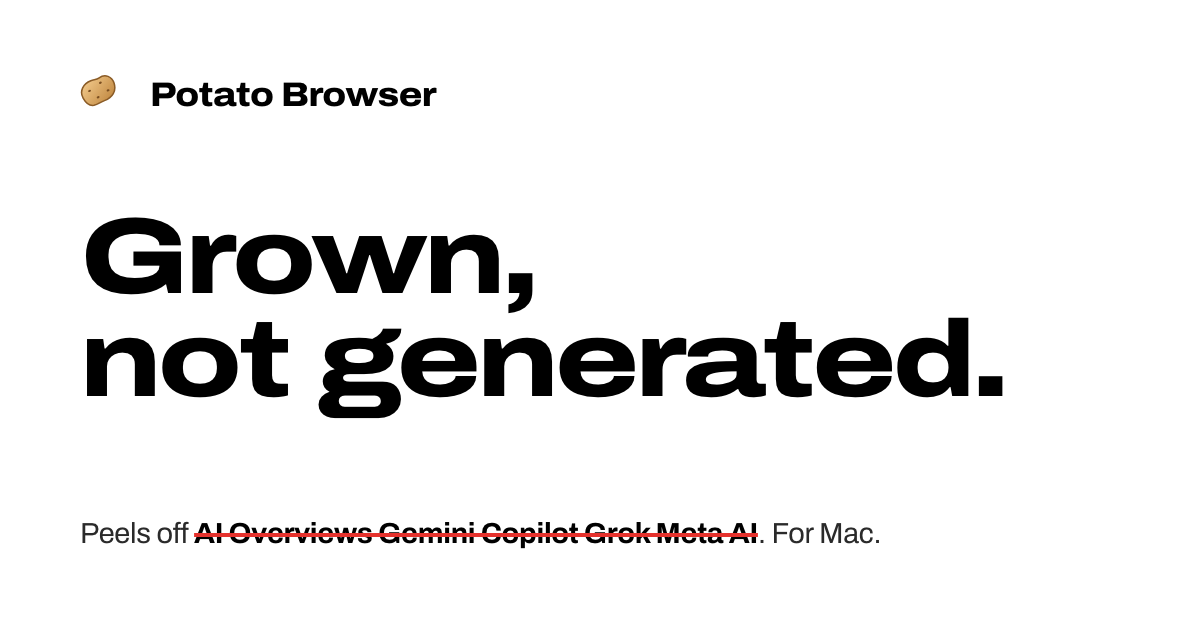
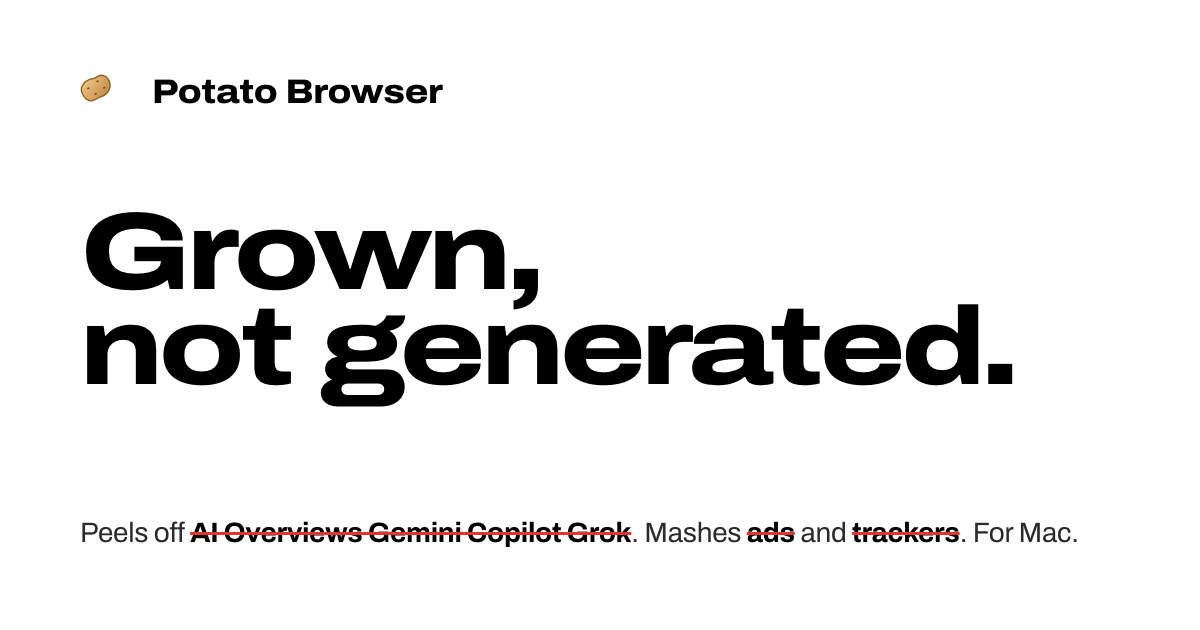
Site: the built-in ad blocker on potatobrowser.com
- New "Ads and trackers, mashed" section with a demo in the hero's
  style: a news page whose ads get struck out and folded away, and
  the trackers that never loaded.
- Hero, meta and social descriptions mention the ad blocker; nav link.
- FAQ: why block ads in a no-AI browser, will it break sites, what
  the ad blocker sends; free and extensions answers updated.
- Social card tagline: peels off AI, mashes ads and trackers.

diff --git a/apps/web/public/index.html b/apps/web/public/index.html
@@ -4,13 +4,13 @@
   <meta charset="utf-8">
   <meta name="viewport" content="width=device-width, initial-scale=1">
   <title>Potato Browser: the web, no artificial ingredients</title>
-  <meta name="description" content="A fast Chromium browser for Mac that peels AI Overviews, chatbots and AI buttons off major sites, grows without AI in the engine, and lets people flag AI-generated posts. Grown, not generated.">
+  <meta name="description" content="A fast Chromium browser for Mac that peels AI Overviews, chatbots and AI buttons off major sites, mashes ads and trackers before they load, grows without AI in the engine, and lets people flag AI-generated posts. Grown, not generated.">
   <meta name="theme-color" content="#ffffff">
   <link rel="canonical" href="https://potatobrowser.com/">
   <link rel="icon" href="/favicon.png" type="image/png">
   <link rel="apple-touch-icon" href="/apple-touch-icon.png">
   <meta property="og:title" content="Potato Browser">
-  <meta property="og:description" content="Grown, not generated. A Mac browser that peels the AI off the web and lets people flag AI-generated posts.">
+  <meta property="og:description" content="Grown, not generated. A Mac browser that peels the AI off the web, mashes the ads and trackers, and lets people flag AI-generated posts.">
   <meta property="og:url" content="https://potatobrowser.com/">
   <meta property="og:image" content="https://potatobrowser.com/og.png">
   <meta property="og:type" content="website">
@@ -28,6 +28,7 @@
     </a>
     <nav aria-label="Primary">
       <a href="#hidden">What gets peeled</a>
+      <a href="#ads">Ad blocker</a>
       <a href="#flags">Flags</a>
       <a href="#source">Source</a>
       <a href="#faq">Questions</a>
@@ -39,7 +40,7 @@
     <section class="hero" aria-labelledby="hero-title">
       <h1 id="hero-title"><span>Grown,</span> <span>not generated.</span></h1>
       <div class="hero-copy">
-        <p class="lede">A fast Chromium browser for Mac that peels AI Overviews, chatbots and "help me write" buttons off the sites you use, and lets people flag AI-generated posts for each other. The web, with no artificial ingredients.</p>
+        <p class="lede">A fast Chromium browser for Mac that peels AI Overviews, chatbots and "help me write" buttons off the sites you use, mashes ads and trackers before they load, and lets people flag AI-generated posts for each other. The web, with no artificial ingredients.</p>
         <div class="cta-row">
           <a class="btn primary" href="/download/mac-arm64" data-download="arm64">Download for Mac</a>
           <a class="btn quiet" href="/download/mac-x64" data-download="x64">Intel Mac</a>
@@ -101,6 +102,61 @@
         <div><dt>GitHub, Stack Overflow, Notion</dt><dd><s>Copilot</s> <s>AI Assist</s> <s>Notion AI</s></dd></div>
       </dl>
       <p class="aside">The default search engine is DuckDuckGo with its AI switched off: plain results, like a plain baked potato. Prefer Google? Its plain web results are one click away in Settings.</p>
+    </section>
+
+    <section class="ads" id="ads" aria-labelledby="ads-title">
+      <div class="ads-copy">
+        <h2 id="ads-title">Ads and trackers, mashed</h2>
+        <p>Potato Browser comes with an ad blocker, switched on from the first page. Banners, pop-ups, video ads and the tracking scripts that follow you from site to site never load, so pages come up lighter and faster and nobody keeps notes on what you read.</p>
+        <p>It runs on the same open filter lists as uBlock Origin: EasyList, EasyPrivacy and uBlock's own, including the fixes that keep video ads off YouTube. Nothing to install, nothing to set up.</p>
+        <ul class="off" aria-label="What the ad blocker stops">
+          <li>Banner ads</li>
+          <li>Video ads</li>
+          <li>Pop-ups</li>
+          <li>Tracking pixels</li>
+          <li>Analytics scripts</li>
+        </ul>
+        <p class="fine">Want to support a site? The ad blocker button in the toolbar lets its ads through, there and nowhere else. Cookie banners and newsletter pop-ups can go too, one switch each in Settings. The lists freshen up daily through this site; the request names the lists, never you or the pages you visit.</p>
+      </div>
+
+      <figure class="ads-demo" data-ads="shown" aria-label="Example: a news article whose ads get struck out and mashed away">
+        <div class="win">
+          <div class="win-bar">
+            <span class="lights" aria-hidden="true"><i></i><i></i><i></i></span>
+            <span class="win-url">the-daily-spud.example/record-potato</span>
+            <button class="shield" type="button" aria-pressed="false" data-mash>
+              <svg viewBox="0 0 16 16" aria-hidden="true"><path d="M5.6 1.9h4.8l3.7 3.7v4.8l-3.7 3.7H5.6l-3.7-3.7V5.6z"/></svg>
+              <span data-mash-label>Mash the ads</span>
+            </button>
+          </div>
+          <div class="page article">
+            <div class="ad-wrap"><div class="ai-clip"><div class="ad-box ad-banner">
+              <span class="ad-tag">Advertisement</span>
+              <p class="ad-head">Buy 2 sacks, get 1 free!</p>
+              <p class="ad-sub">Limited time. Act now. Hurry. Seriously, hurry.</p>
+              <svg class="pen" viewBox="0 0 400 160" preserveAspectRatio="none" aria-hidden="true">
+                <path d="M14 140 C 90 112, 150 96, 214 70 S 330 26, 388 14"/>
+                <path d="M22 26 C 110 52, 196 82, 262 104 S 352 132, 384 146"/>
+              </svg>
+            </div></div></div>
+            <p class="kicker">Local news</p>
+            <p class="headline">Farmer grows an eleven pound potato</p>
+            <p class="body-text">The tuber broke the county record by two pounds. "I just kept hilling the rows," she said, holding it with both hands.</p>
+            <div class="ad-wrap"><div class="ai-clip"><div class="ad-box ad-inline">
+              <span class="ad-tag">Sponsored</span>
+              <span class="ad-thumb" aria-hidden="true"></span>
+              <p class="ad-head small">7 potato hacks doctors don't want you to know</p>
+              <svg class="pen" viewBox="0 0 400 160" preserveAspectRatio="none" aria-hidden="true">
+                <path d="M14 140 C 90 112, 150 96, 214 70 S 330 26, 388 14"/>
+                <path d="M22 26 C 110 52, 196 82, 262 104 S 352 132, 384 146"/>
+              </svg>
+            </div></div></div>
+            <p class="body-text">Judges will weigh the next contenders at the fair on Saturday.</p>
+            <p class="trackers"><span>Never loaded:</span> <s>doubleclick.net</s> <s>google-analytics.com</s> <s>facebook.net</s> <s>taboola.com</s></p>
+          </div>
+        </div>
+        <figcaption>Press the button to watch the ads get mashed. In the browser it happens before the page even loads.</figcaption>
+      </figure>
     </section>
 
     <section class="engine" aria-labelledby="engine-title">
@@ -196,11 +252,23 @@ pnpm --filter @potato/browser dist --arch host</code></pre>
       </details>
       <details>
         <summary>Is it free?</summary>
-        <p>Yes, and open source under the MIT license. No account, no subscription, no ads. Cheaper than a sack of spuds.</p>
+        <p>Yes, and open source under the MIT license. No account, no subscription, and no ads (we block those). Cheaper than a sack of spuds.</p>
       </details>
       <details>
         <summary>Can I see the AI on a site when I actually want it?</summary>
         <p>Yes, and we won't judge. Click the shield in the toolbar and switch it off for that site. Everything comes back right away, on that site only. Settings has the full list of covered sites and features if you'd like to keep a few of them.</p>
+      </details>
+      <details>
+        <summary>Why block ads in a no-AI browser?</summary>
+        <p>Because they grow in the same patch. A lot of the generated filler on the web exists only to show ads, and the ad networks are the trackers that follow you from site to site. Keeping the web human means keeping those off your plate too.</p>
+      </details>
+      <details>
+        <summary>Will the ad blocker break sites?</summary>
+        <p>Rarely. It uses uBlock Origin's lists, which carry fixes for sites that misbehave and update every day. If a site still acts up, press the ad blocker button in the toolbar and switch it off for that site. The page reloads with everything back, on that site only.</p>
+      </details>
+      <details>
+        <summary>What does the ad blocker send?</summary>
+        <p>Nothing about you. All matching happens on your Mac. Once a day the browser asks this site which version of each filter list is current and downloads the ones that changed. The request names the lists, never you or the pages you visit. You can turn updates off in Settings.</p>
       </details>
       <details>
         <summary>Can't people just flag everything?</summary>
@@ -220,7 +288,7 @@ pnpm --filter @potato/browser dist --arch host</code></pre>
       </details>
       <details>
         <summary>Does it support extensions and saved passwords?</summary>
-        <p>Not yet, they're still sprouting. Your password manager's own app works alongside it in the meantime.</p>
+        <p>Not yet, they're still sprouting. You won't miss an ad blocker extension, since one is built in. Your password manager's own app works alongside it in the meantime.</p>
       </details>
       <details>
         <summary>Windows or Linux?</summary>

diff --git a/apps/web/public/styles.css b/apps/web/public/styles.css
@@ -456,6 +456,141 @@ main > section.hero {
   max-width: var(--measure);
 }
 
+/* ---- ad blocker -------------------------------------------------------------------------------- */
+.ads {
+  display: grid;
+  grid-template-columns: minmax(0, 5fr) minmax(0, 7fr);
+  gap: clamp(32px, 5vw, 72px);
+  align-items: start;
+}
+.ads-copy {
+  display: grid;
+  gap: 22px;
+}
+.ads-copy p {
+  max-width: var(--measure);
+}
+.ads-copy .off {
+  margin: 4px 0 0;
+}
+.ads-demo {
+  margin: 0;
+}
+.ads-demo figcaption {
+  margin-top: 22px;
+  font-size: 15px;
+  color: var(--muted);
+}
+.article .kicker {
+  font-size: 13px;
+  font-weight: 700;
+  letter-spacing: 0.06em;
+  text-transform: uppercase;
+  color: var(--pen);
+}
+.article .headline {
+  font-size: 24px;
+  line-height: 1.15;
+  font-weight: 800;
+  font-stretch: var(--semi);
+  letter-spacing: -0.02em;
+  color: var(--ink);
+  margin: 4px 0 10px;
+}
+.article .body-text {
+  font-size: 15.5px;
+  margin-bottom: 14px;
+}
+.ad-wrap {
+  display: grid;
+  grid-template-rows: 1fr;
+  transition: grid-template-rows 0.45s cubic-bezier(0.3, 0.7, 0.2, 1), margin 0.45s;
+  margin-bottom: 18px;
+}
+.ad-box {
+  position: relative;
+  border-radius: 12px;
+  padding: 14px 18px;
+  font-size: 15px;
+}
+.ad-banner {
+  background: repeating-linear-gradient(135deg, #fff3b0 0 14px, #ffe680 14px 28px);
+  color: #4a3b00;
+  text-align: center;
+}
+.ad-inline {
+  display: grid;
+  grid-template-columns: 56px minmax(0, 1fr);
+  gap: 4px 14px;
+  align-items: center;
+  background: #f1f4f9;
+  color: #2c3a52;
+}
+.ad-inline .ad-tag {
+  grid-column: 1 / -1;
+}
+.ad-thumb {
+  width: 56px;
+  height: 42px;
+  border-radius: 8px;
+  background: linear-gradient(160deg, #ffd9a8 0%, #ff9bb3 60%, #9d8bff 100%);
+}
+.ad-tag {
+  display: block;
+  font-size: 11.5px;
+  font-weight: 700;
+  letter-spacing: 0.08em;
+  text-transform: uppercase;
+  opacity: 0.7;
+}
+.ad-head {
+  font-size: 21px;
+  font-weight: 800;
+  font-stretch: var(--semi);
+  letter-spacing: -0.01em;
+}
+.ad-head.small {
+  font-size: 16px;
+  line-height: 1.3;
+}
+.ad-sub {
+  font-size: 14px;
+}
+.trackers {
+  display: flex;
+  flex-wrap: wrap;
+  gap: 4px 14px;
+  align-items: baseline;
+  font-size: 14px;
+  color: var(--muted);
+  border-top: 1px solid var(--rule);
+  padding-top: 12px;
+}
+.trackers s {
+  color: var(--ink);
+  font-weight: 700;
+  text-decoration-color: var(--pen);
+  text-decoration-thickness: 2px;
+}
+/* Ad boxes are wider than the AI box: longer dashes, or the undrawn stroke peeks through. */
+.ads-demo .pen path {
+  stroke-dasharray: 1600;
+  stroke-dashoffset: 1600;
+}
+.ads-demo.striking .pen path {
+  animation: strike 0.42s cubic-bezier(0.5, 0, 0.3, 1) forwards;
+}
+.ads-demo.striking .pen path + path {
+  animation-delay: 0.32s;
+}
+.ads-demo[data-ads='hidden'] .ad-wrap {
+  grid-template-rows: 0fr;
+  margin-bottom: 0;
+}
+.ads-demo[data-ads='hidden'] .pen path {
+  stroke-dashoffset: 0;
+}
+
 /* ---- engine ------------------------------------------------------------------------------------ */
 .engine {
   display: grid;
@@ -706,6 +841,7 @@ main > section.hero {
 /* ---- responsive --------------------------------------------------------------------------------- */
 @media (max-width: 960px) {
   .hero,
+  .ads,
   .engine,
   .flags,
   .section-head {
@@ -755,9 +891,11 @@ main > section.hero {
     scroll-behavior: auto;
   }
   .ai-wrap,
+  .ad-wrap,
   .post {
     transition: none;
   }
+  .ads-demo.striking .pen path,
   .demo.striking .pen path {
     animation: none;
     stroke-dashoffset: 0;

diff --git a/apps/web/public/app.js b/apps/web/public/app.js
@@ -32,6 +32,44 @@
     else setTimeout(() => hideAi(true), 1100);
   }
 
+  // Ad blocker demo: the pen strikes each ad, then it folds away. Runs when scrolled into view.
+  const ads = document.querySelector('.ads-demo');
+  const mash = document.querySelector('[data-mash]');
+  const mashLabel = document.querySelector('[data-mash-label]');
+  let adsTimer = 0;
+  const setMash = (on) => {
+    mash.setAttribute('aria-pressed', String(on));
+    mashLabel.textContent = on ? 'Ads mashed' : 'Mash the ads';
+  };
+  const hideAds = (animate) => {
+    clearTimeout(adsTimer);
+    setMash(true);
+    if (!animate) {
+      ads.dataset.ads = 'hidden';
+      return;
+    }
+    ads.classList.add('striking');
+    adsTimer = setTimeout(() => (ads.dataset.ads = 'hidden'), 900);
+  };
+  const showAds = () => {
+    clearTimeout(adsTimer);
+    ads.classList.remove('striking');
+    ads.dataset.ads = 'shown';
+    setMash(false);
+  };
+  if (ads && mash) {
+    mash.addEventListener('click', () => (ads.dataset.ads === 'hidden' ? showAds() : hideAds(!reduce)));
+    if (reduce || !('IntersectionObserver' in window)) hideAds(false);
+    else {
+      const io = new IntersectionObserver((entries) => {
+        if (!entries.some((e) => e.isIntersecting)) return;
+        io.disconnect();
+        if (mash.getAttribute('aria-pressed') === 'false') adsTimer = setTimeout(() => hideAds(true), 700);
+      }, { threshold: 0.6 });
+      io.observe(ads);
+    }
+  }
+
   // Flag modes.
   const notes = {
     label: 'Flagged posts stay in your feed with an AI label, like a sticker on the sack.',
